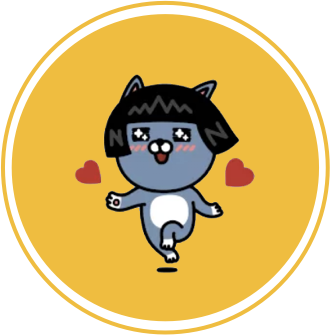
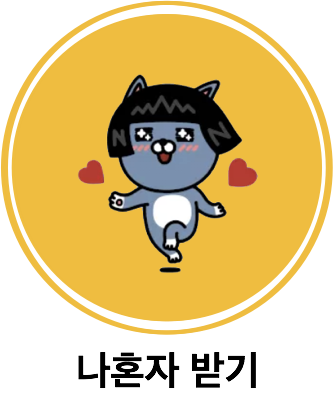
프로모타입 선택시 라디오버튼 -> 이미지로 변경

diff --git a/board-test/src/main/java/com/sunny/test/CertificationInterceptor.java b/board-test/src/main/java/com/sunny/test/CertificationInterceptor.java
@@ -1,6 +1,8 @@
 package com.sunny.test;
 
 
+import java.io.PrintWriter;
+
 import javax.servlet.RequestDispatcher;
 import javax.servlet.http.HttpServletRequest;
 import javax.servlet.http.HttpServletResponse;
@@ -22,10 +24,15 @@ public class CertificationInterceptor implements HandlerInterceptor {
         
         if(ObjectUtils.isEmpty(loginVO)){
         	
-        		request.setAttribute("destination", request.getRequestURI());
-        		RequestDispatcher dispatcher = request.getRequestDispatcher("/login");
-        		dispatcher.forward(request, response);
-            return false;
+		         //PrintWriter out = response.getWriter();
+		        	 //out.println("<script>alert('로그인이 필요한 메뉴입니다.'); history.go(-1);</script>");
+		         //out.flush();
+		         
+		         //response.sendRedirect("/login");
+	        		request.setAttribute("destination", request.getRequestURI());
+	        		RequestDispatcher dispatcher = request.getRequestDispatcher("/login");
+	        		dispatcher.forward(request, response);
+	            return false;
         }else{
         		//특정시간이 지나면 세션 만료 (초단위) 
             session.setMaxInactiveInterval(30*60);

diff --git a/board-test/src/main/java/com/sunny/test/controller/PromotionController.java b/board-test/src/main/java/com/sunny/test/controller/PromotionController.java
@@ -52,30 +52,15 @@ public class PromotionController {
     
     
     
-    /*
-    @RequestMapping(value="/test")      
-    public ModelAndView test() throws Exception{
+    
+    @RequestMapping(value="/test1")      
+    public ModelAndView test1() throws Exception{
     		ModelAndView mav = new ModelAndView();
 
-		PromotionVO  promotion = promoService.getPromotionById("171020_056");
-		UserVO ownUser = userService.getUserById(promotion.getUser_id());
-		ProductVO product = productService.getProductInfo(promotion.getProduct_code());
-		List<BenefitVO> benefits = promoService.getBenefit(promotion.getPromo_type(), promotion.getBenefit_code());
-		
-		
-		
-		mav.addObject("promotion",promotion);
-		mav.addObject("ownUser",ownUser);
-		mav.addObject("product",product);
-		mav.addObject("benefits",benefits);
-		String benefits_json = new Gson().toJson(benefits);
-		
-		mav.addObject("benefits",benefits_json);
-		
-		mav.setViewName("Promotion/promotion_Detail_test");     
+		mav.setViewName("test");     
          return mav ;      
     }
-    */
+    
     
     //The Form to make Promotion
     @RequestMapping(value="Promotion/FormNewPromotion")      
